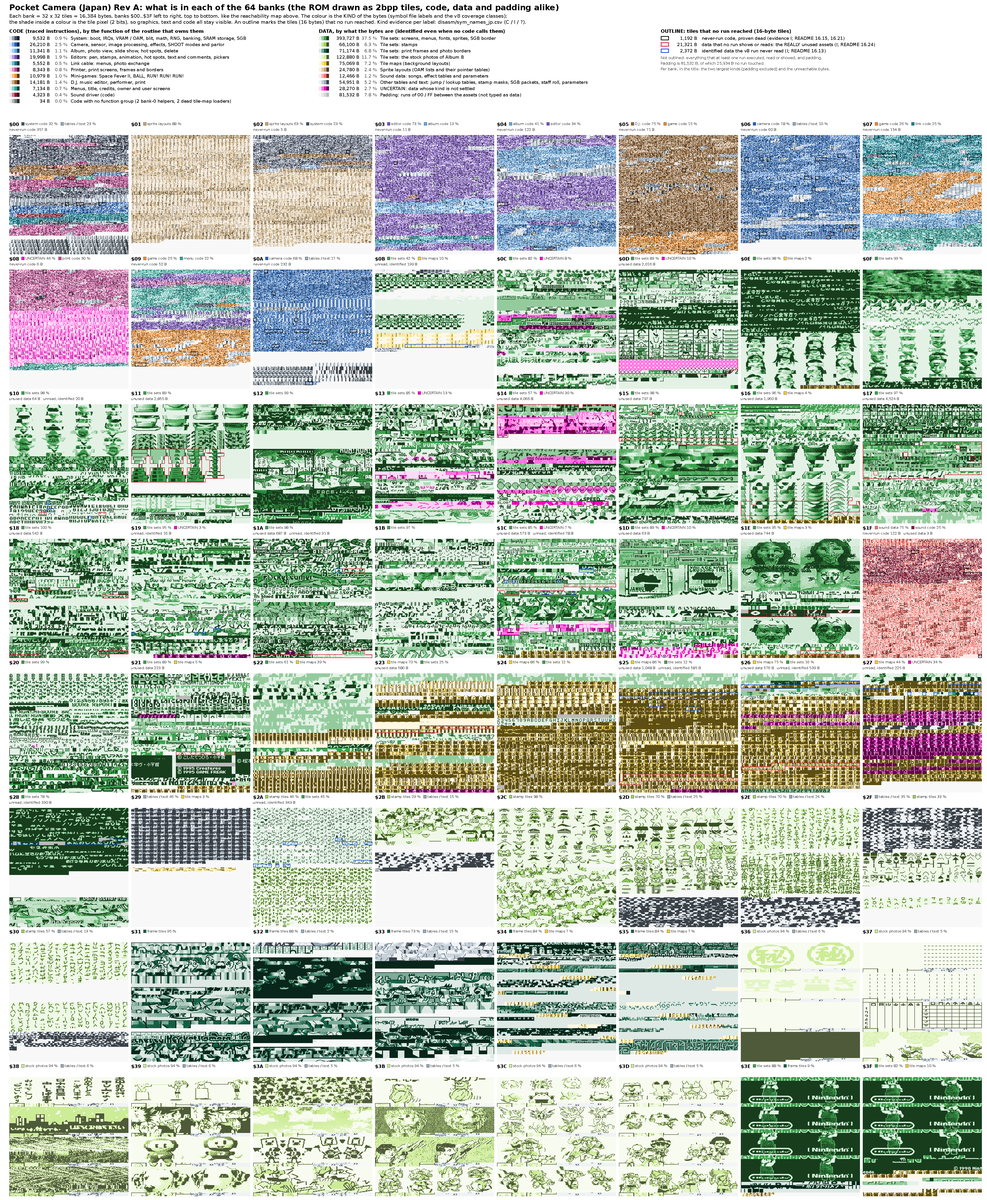
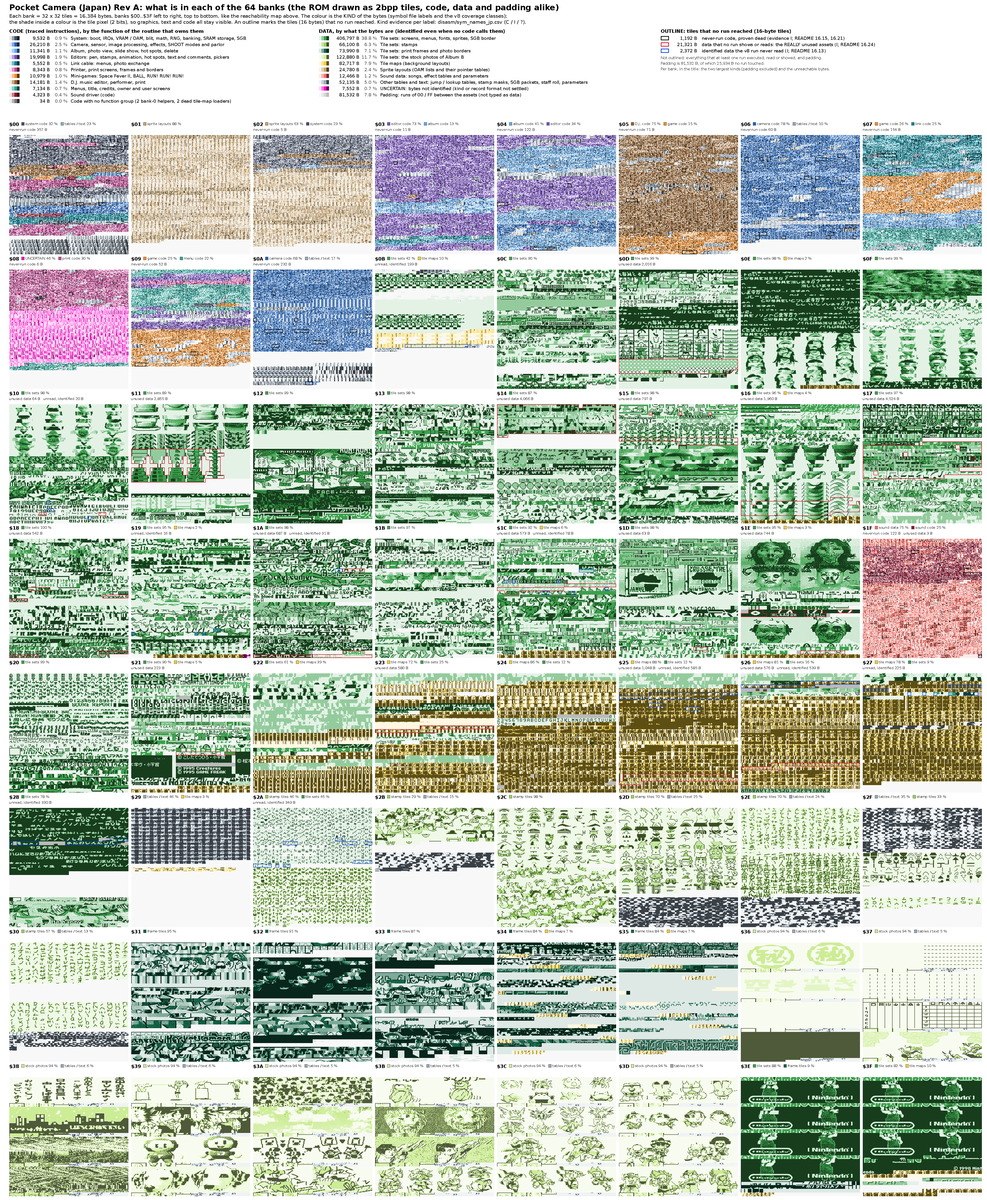
Layout map: classify the "uncertain" data by evidence
The uncertain colour was far too broad (28,270 B). A `?` on a label doubts the
role of the bytes, not their kind, and a `Src_*` / `Data_*` label is only named
after the far pointer that loads it. Now:

- A `?` label keeps the kind its name gives (the six `?` graphics are tile sets).
- assets/layout_kind_overrides_jp.csv gives each of the 50 far-pointer-named
  blocks its kind with the evidence: 7,648 B of tile maps (07:5369 copies 0x180
  B of the 07:53A6 entries to $9840; 07:7CF9 map strips; 04:5922 copies the
  04:5403 entries, 0x120 B, to $9C00; the equaliser copy) and 7,570 B of tile
  sets (04:5922 copies the 04:539D / 53D0 icon tiles to $8F00 / $8F60; digit,
  panel, picker and podium tiles; frame 0 of the 21:7BB0 icon animation).
- WildFrame*_TilesPart2 (32:4000, 33:4000, 2,816 B) are frame tile sets, not
  tables.
- Left uncertain: 08:54DE (7,520 B of records, format not decoded) and 19:7FE0
  (32 B after a map).

Totals: tile sets 669,767 B, tile maps 82,717 B, tables 52,135 B, uncertain
7,552 B. README section and bank table, CLAUDE.md and the by-bank CSV follow.

Claude-Session: https://claude.ai/code/session_01FyVRmHfUqNeQ8ayUFB5i6z

diff --git a/tcrf_check/tools/rom_layout_map.py b/tcrf_check/tools/rom_layout_map.py
@@ -1,14 +1,15 @@
 #!/usr/bin/env python3
 """The whole JP ROM bank by bank, coloured by WHAT each byte is (README 'Current status', second map), with the tiles that nothing reaches outlined. The ROM is drawn as 2bpp tiles (64 banks of 32 x 32 tiles) exactly like rom_reach_map.py.
-usage: rom_layout_map.py OUT.png [--rom pocketcamera_jp.gb] [--csv assets/layout_by_bank_jp.csv] [--map ...] [--assets ...] [--witness ...] [--reach ...] [--unused ...]
+usage: rom_layout_map.py OUT.png [--rom pocketcamera_jp.gb] [--csv assets/layout_by_bank_jp.csv] [--map ...] [--assets ...] [--witness ...] [--reach ...] [--unused ...] [--kinds assets/layout_kind_overrides_jp.csv]
 Each ROM byte gets one category:
   code (class C / F / N of coverage/v8/report_v8/rom_map.csv = traced instructions): the function group of the label that owns the byte (rules below; 10 groups);
   data (everything else): tile sets (4 kinds), tile maps, sprite (OAM) layouts, sound data, other tables and text, UNCERTAIN data, padding.
 The owner of a byte is the nearest label at or before it in the same bank (disasm/sym_names_jp.csv).  The kind of a data label comes from its name (Gfx_ / Sheet_ / Kana_ / TileGap_ = tile set, Map_ / BgMap_ /
 *Border*_Map = tile map, Song / Sfx / Snd = sound, OamList / OamPtrTbl = sprite layouts, StampCat*_Gfx = stamps, WildFrame / Border *_Tiles = frames, AlbumB*_Tiles / _Thumb = stock photos, anything else
-inside code banks = tables), so the evidence behind a kind is the one of the label (disasm/sym_names_jp.csv, column conf).  UNCERTAIN = data whose kind or role is not settled: the labels tagged '?' in
-the symbol file (disasm/sym_unconclusive_jp.md lists them) and Src_* / Data_* (copied through a far pointer whose
-destination class is not known).  Padding = runs of >= 16 x 00 / FF that no typed range of disasm/sym_types_jp.csv covers (the fill between the assets) and the zero fill named Bank*_Padding / ZeroFill in the symbol file.
+inside code banks = tables), so the evidence behind a kind is the one of the label (disasm/sym_names_jp.csv, column conf).  A label tagged '?' (disasm/sym_unconclusive_jp.md) only says that the ROLE of the bytes is doubtful, not their kind: it keeps the kind its name
+gives (a Gfx_ block is a tile set whatever its role).  The kind of the Src_* / Data_* blocks (named after the far pointer that loads them, not after what they are) comes from assets/layout_kind_overrides_jp.csv,
+one row per block with the evidence (the code that copies it and where to, or how the bytes render).  UNCERTAIN = the bytes that stay unidentified after that: a '?' label whose name gives no kind, and any Src_* / Data_*
+block without a row.  Padding = runs of >= 16 x 00 / FF that no typed range of disasm/sym_types_jp.csv covers (the fill between the assets) and the zero fill named Bank*_Padding / ZeroFill in the symbol file.
 The outline marks tiles that contain bytes no run reached, with the classes of rom_reach_map.py (tcrf_check/tools/rom_reach_classes.py): black never-run code, red unused data, blue identified data the v8 run never read."""
 import sys, os, csv, re, collections
 import numpy as np
@@ -22,7 +23,8 @@ def opt(n, d):
 ROM = opt('--rom', 'pocketcamera_jp.gb'); MAP = opt('--map', os.path.join(REPO, 'coverage', 'v8', 'report_v8', 'rom_map.csv'))
 ASSETS = opt('--assets', os.path.join(REPO, 'assets', 'asset_map_jp.csv')); WIT = opt('--witness', os.path.join(REPO, 'assets', 'witness_jp.csv'))
 REACH = opt('--reach', os.path.join(REPO, 'assets', 'reach_ranges_jp.csv'))
-UNUSED = opt('--unused', os.path.join(REPO, 'tcrf_check', 'assets', 'unidentified', 'really_unused.csv')); CSVOUT = opt('--csv', None); OUT = a[0]
+UNUSED = opt('--unused', os.path.join(REPO, 'tcrf_check', 'assets', 'unidentified', 'really_unused.csv')); CSVOUT = opt('--csv', None)
+KINDS = opt('--kinds', os.path.join(REPO, 'assets', 'layout_kind_overrides_jp.csv')); OUT = a[0]
 NAMES = os.path.join(REPO, 'disasm', 'sym_names_jp.csv'); TYPES = os.path.join(REPO, 'disasm', 'sym_types_jp.csv')
 
 g = RC.build(ROM, MAP, ASSETS, WIT, REACH, UNUSED, REPO)
@@ -51,7 +53,7 @@ CATS = [
  ('OAM',   'Sprite layouts (OAM lists and their pointer tables)',                                          (200, 165, 110)),
  ('SOUND', 'Sound data: songs, effect tables and parameters',                                              (255, 110, 100)),
  ('TBL',   'Other tables and text: jump / lookup tables, stamp masks, SGB packets, staff roll, parameters', (150, 168, 184)),
- ('UNC',   'UNCERTAIN: data whose kind is not settled',                                                    (255, 0, 200)),
+ ('UNC',   'UNCERTAIN: bytes not identified (kind or record format not settled)',                          (255, 0, 200)),
  ('PAD',   'Padding: runs of 00 / FF between the assets (not typed as data)',                                                           (214, 214, 214)),
 ]
 KEY = {k: i for i, (k, _, _) in enumerate(CATS)}
@@ -95,7 +97,7 @@ def data_kind(name):
     if p == 'StampCat': return 'T_STP' if name.endswith('_Gfx') else 'TBL'
     if p in ('WildFrame', 'Border') or name.startswith('Border'):
         if re.search(r'_Map$|Map$', name) and not name.endswith('SrcTbl'): return 'MAP'
-        return 'T_FRM' if re.search(r'(Tiles|TilesTail|LateralStrips)$', name) else 'TBL'
+        return 'T_FRM' if re.search(r'(Tiles(Part\d+|Tail)?|LateralStrips)$', name) else 'TBL'
     if p in ('Gfx', 'Sheet', 'Kana', 'TileGap', 'TileSet'): return 'T_UI'
     if p in ('Map', 'BgMap'): return 'MAP'
     if p == 'Sgb': return 'T_UI' if 'BorderTiles' in name else ('MAP' if 'BorderMap' in name else 'TBL')
@@ -109,7 +111,7 @@ l_code = np.zeros(L, np.uint8); l_data = np.zeros(L, np.uint8)
 for i, (o, r) in enumerate(labels):
     l_code[i] = KEY[code_group(r['name'])]
     k = data_kind(r['name'])
-    if r['conf'] == '?' and k != 'PAD': k = 'UNC'
+    if r['conf'] == '?' and k == 'TBL': k = 'UNC'                                          # role doubtful AND no kind in the name
     l_data[i] = KEY[k]
 idx = np.searchsorted(loff, np.arange(N), 'right') - 1
 ok = (idx >= 0) & ((loff[np.maximum(idx, 0)] >> 14) == (np.arange(N) >> 14))          # the owner must lie in the same bank
@@ -123,6 +125,16 @@ kind[cat == 3] = KEY['PAD']                                                     
 typed = np.zeros(N, bool)
 for r in csv.DictReader(open(TYPES, encoding='utf-8')): typed[flat(int(r['bank'], 16), int(r['start'], 16)):flat(int(r['bank'], 16), int(r['end'], 16))] = True
 kind[~typed & ~is_code & (cls != ord('T')) & g['pad']] = KEY['PAD']
+# kind of the Src_* / Data_* blocks, from the evidence rows of assets/layout_kind_overrides_jp.csv (bank, start, end, kind, ev, label, basis); only bytes still UNCERTAIN are changed
+if os.path.exists(KINDS):
+    for r in csv.DictReader(open(KINDS, encoding='utf-8')):
+        o0, o1 = flat(int(r['bank'], 16), int(r['start'], 16)), flat(int(r['bank'], 16), int(r['end'], 16))
+        seg = kind[o0:o1]; hit = (seg == KEY['UNC']) & ~is_code[o0:o1]; assert hit.any(), 'no uncertain byte left in %s' % r['label']
+        seg[hit] = KEY[r['kind']]
+_u = np.flatnonzero(kind == KEY['UNC'])
+if len(_u):
+    _cut = np.flatnonzero(np.diff(_u) > 1) + 1
+    for _s in np.split(_u, _cut): print('uncertain span %02X:%04X +%d' % (_s[0] // 0x4000, _s[0] % 0x4000 + (0x4000 if _s[0] >= 0x4000 else 0), len(_s)))
 
 # ---- marks: the bytes no run reached --------------------------------------------------------------------------------------------------------------------------------------------------------------
 MARKS = [('code that never ran (proven dead, evidence I; README 16.15, 16.21)', (0, 0, 0)),

diff --git a/README.md b/README.md
@@ -18,11 +18,11 @@ two ROMs are different builds that share the numbering of the modes and the flow
 
 ![What each byte of the Japanese ROM is, bank by bank: code by function, tile sets, tile maps, sprite layouts, sound data, tables, uncertain data and padding, with the tiles no run reached outlined](/jp_rom_layout_map.png)
 
-*What the map shows:* the same 64 banks drawn as 2bpp tiles as above, but the colour is **what the bytes are**, not whether a run reached them; the shade inside a colour is the tile pixel. **Code** (117,627 B, 11.2 %: every byte of the static trace) takes the colour of the function of the routine that owns it: system 9,532 B (boot, interrupts, VRAM / OAM, blit, math, RNG, bank switching, SRAM storage, the SGB sender), camera 26,210 B (sensor driver, image processing, effects, the SHOOT modes and the parlor), album 11,341 B, editors 19,998 B, link cable 5,552 B, printer 8,343 B, mini-games 10,979 B, D.J. 14,181 B, menus 7,134 B, sound driver 4,323 B, and 34 B in no group. **Data** is coloured by kind, **even when no code calls it**: tile sets 653,881 B (62.4 %: 393,727 B screens, menus, fonts, sprites and the SGB border; 66,100 B stamps; 71,174 B print frames and photo borders; 122,880 B the 30 stock photos of Album B), tile maps 75,069 B (7.2 %), sprite layouts 24,780 B, sound data 12,466 B, other tables and text 54,951 B (stamp masks, the staff roll, SGB packets, jump and lookup tables), **uncertain 28,270 B (2.7 %)**, and padding 81,532 B (7.8 %). An **outline** marks the 16-byte tiles that no run reached, with the classes of the first map: black = code that never ran (1,192 B), red = unused data (21,321 B), blue = identified data the v8 run never read (2,372 B); of the padding, 25,934 B were never touched. Per-bank byte counts of every colour: `assets/layout_by_bank_jp.csv`; generator `tcrf_check/tools/rom_layout_map.py` (shares `rom_reach_classes.py` with the first map).
+*What the map shows:* the same 64 banks drawn as 2bpp tiles as above, but the colour is **what the bytes are**, not whether a run reached them; the shade inside a colour is the tile pixel. **Code** (117,627 B, 11.2 %: every byte of the static trace) takes the colour of the function of the routine that owns it: system 9,532 B (boot, interrupts, VRAM / OAM, blit, math, RNG, bank switching, SRAM storage, the SGB sender), camera 26,210 B (sensor driver, image processing, effects, the SHOOT modes and the parlor), album 11,341 B, editors 19,998 B, link cable 5,552 B, printer 8,343 B, mini-games 10,979 B, D.J. 14,181 B, menus 7,134 B, sound driver 4,323 B, and 34 B in no group. **Data** is coloured by kind, **even when no code calls it**: tile sets 669,767 B (63.9 %: 406,797 B screens, menus, fonts, sprites and the SGB border; 66,100 B stamps; 73,990 B print frames and photo borders; 122,880 B the 30 stock photos of Album B), tile maps 82,717 B (7.9 %), sprite layouts 24,780 B, sound data 12,466 B, other tables and text 52,135 B (stamp masks, the staff roll, SGB packets, jump and lookup tables), **uncertain 7,552 B (0.7 %)**, and padding 81,532 B (7.8 %). An **outline** marks the 16-byte tiles that no run reached, with the classes of the first map: black = code that never ran (1,192 B), red = unused data (21,321 B), blue = identified data the v8 run never read (2,372 B); of the padding, 25,934 B were never touched. Per-bank byte counts of every colour: `assets/layout_by_bank_jp.csv`; generator `tcrf_check/tools/rom_layout_map.py` (shares `rom_reach_classes.py` with the first map).
 
-*How a byte gets its colour:* code is a byte of the static trace (coverage classes `C`, `F`, `N` of `coverage/v8/report_v8/rom_map.csv`); its function group is the one of the label that owns it (nearest label at or before it in the bank, `disasm/sym_names_jp.csv`; the `ModeNN_` labels follow the mode table of §16.2). Everything else takes its kind from the name of its label: `Gfx_` / `Sheet_` / `Kana_` / `TileGap_` = tile set, `StampCat*_Gfx`, `WildFrame*` / `Border*` tiles and `AlbumB*_Tiles` / `_Thumb` = the stamp, frame and stock-photo tile sets, `Map_` / `BgMap_` / `*_Map` = tile map, `Song` / `Sfx` / `Snd` = sound, `OamList` / `OamPtrTbl` = sprite layouts, the rest of a code bank = tables. The kind is therefore as certain as the label (C where a loader, a screenshot or a replay shows it, I where it is the reading of the bytes or of their neighbours, which is the case of most tile and map ranges that no code references). Padding is a run of 16+ `00` / `FF` that no typed range of `disasm/sym_types_jp.csv` covers, plus the zero fill the symbol file names `Bank*_Padding` / `ZeroFill`; forced runs read part of it (the 3,654 B of zero fill at the ends of banks $00-$02, for instance), so it is more than the 25,934 B nobody touched.
+*How a byte gets its colour:* code is a byte of the static trace (coverage classes `C`, `F`, `N` of `coverage/v8/report_v8/rom_map.csv`); its function group is the one of the label that owns it (nearest label at or before it in the bank, `disasm/sym_names_jp.csv`; the `ModeNN_` labels follow the mode table of §16.2). Everything else takes its kind from the name of its label: `Gfx_` / `Sheet_` / `Kana_` / `TileGap_` = tile set, `StampCat*_Gfx`, `WildFrame*` / `Border*` tiles and `AlbumB*_Tiles` / `_Thumb` = the stamp, frame and stock-photo tile sets, `Map_` / `BgMap_` / `*_Map` = tile map, `Song` / `Sfx` / `Snd` = sound, `OamList` / `OamPtrTbl` = sprite layouts, the rest of a code bank = tables. A `?` on a label doubts the role of the bytes, not their kind, so a `?` graphic stays a tile set. The 50 blocks named after the far pointer that loads them (`Src_*`, `Data_*`) get their kind from one evidence row each in `assets/layout_kind_overrides_jp.csv`. The kind is therefore as certain as the label or the row (C where a loader, a screenshot or a replay shows it, I where it is the reading of the bytes or of their neighbours, which is the case of most tile and map ranges that no code references). Padding is a run of 16+ `00` / `FF` that no typed range of `disasm/sym_types_jp.csv` covers, plus the zero fill the symbol file names `Bank*_Padding` / `ZeroFill`; forced runs read part of it (the 3,654 B of zero fill at the ends of banks $00-$02, for instance), so it is more than the 25,934 B nobody touched.
 
-*The uncertain colour (28,270 B, magenta):* 49 `Src_*` blocks, 15,122 B in banks $0C, $13, $14, $17, $19, $1C, $1D, $20, $21, $23, $25, $26 and $27 (data that a table-driven far-pointer copy loads and whose destination class, tile set or map, is not known); `08:54DE`, 7,520 B of short records of the wild-frame page lists (the record format is not decoded); the six graphic spans tagged `?` in the symbol file (5,500 B: `0C:5800`, `0C:6AB0`, `0D:7000`, `13:5CA0`, `14:4554`, `1A:7C90`); and `1C:6D60` (128 B, a small block with the generic name `Data_`, kind not known). `disasm/sym_unconclusive_jp.md` lists them with the test that would settle each.
+*The uncertain colour (7,552 B, magenta):* only what stays unidentified: `08:54DE`, 7,520 B of short records of the wild-frame page lists (the record format is not decoded; the printer packet routine reads them), and the 32 bytes after the 12-row map at `19:7FE0` (no loader reaches them). Everything else that the first version of this map left uncertain is classified (20,718 B): the 6 graphic spans tagged `?` (5,500 B: `0C:5800`, `0C:6AB0`, `0D:7000`, `13:5CA0`, `14:4554`, `1A:7C90`) are tile sets of doubtful role, and the 50 `Src_*` / `Data_*` blocks (15,218 B in banks $0C, $13, $14, $17, $19, $1C, $1D, $20, $21, $23, $25, $26 and $27) are 7,648 B of tile maps (C: the copy routine shows the BG-map destination: the animated background of the View menu, the main-menu slide strips, the stamp-category tile maps, the equaliser) and 7,570 B of tile sets (C where the copy shows a tile destination, as for the stamp-category icons loaded by `Stamp_LoadCategoryIcons`; I where the bytes render as digit, panel, picker or podium tiles). `disasm/sym_unconclusive_jp.md` lists the doubtful names with the test that would settle each.
 
 *How the banks are organised (shares of the 16 KB of each bank; the first map's classes give the reach):*
 
@@ -33,12 +33,12 @@ two ROMs are different builds that share the numbering of the modes and the flow
 | `$03`-`$09` | the mode code: editors (`$03` 73 %), album, editors and the parlor (`$04`), D.J. and BALL (`$05` 75 % + 15 %), the shooting modes (`$06` 78 %), main menu, link, Space Fever II and slide show (`$07`), print screens and the uncertain `08:54DE` block (`$08`: 46 % uncertain, 30 % print code), RUN! RUN! RUN!, the comment editor and keyboard, the user screens and the credits (`$09`) |
 | `$0A` | the camera: sensor driver and effects, 68 % code, 17 % tables |
 | `$0B` | the Super Game Boy data: border tiles 42 %, border map 10 %, packets and palettes 4 %, padding 44 % |
-| `$0C`-`$22` | tile sets, 57-100 % of each bank (`$22`: 61 % tile sets, 39 % tile maps), except `$1F` |
+| `$0C`-`$22` | tile sets, 61-100 % of each bank (`$22`: 61 % tile sets, 39 % tile maps), except `$1F` |
 | `$1F` | sound: 75 % song, effect and parameter data, 25 % sound driver code |
-| `$23`-`$27` | tile maps, 44-86 % of each bank (`$27`: 34 % uncertain) |
+| `$23`-`$27` | tile maps, 72-88 % of each bank, the rest tile sets (9-25 %) and padding |
 | `$28`-`$2A` | `$28` tile sets 78 % (padding 22 %); `$29` the staff-roll tables 46 % and padding 52 %; `$2A` the character glyphs and stamp sheets (tile sets 45 %) and the small-kana stamps (46 %) |
 | `$2B`-`$30` | the stamp categories: stamp tiles 29-98 % of each bank and their 1bpp masks (tables) |
-| `$31`-`$35` | print frames (`$31`-`$33`, 73-95 % frame tiles) and photo borders (`$34`-`$35`, 84 % tiles, 7 % maps) |
+| `$31`-`$35` | print frames (`$31`-`$33`, 87-95 % frame tiles) and photo borders (`$34`-`$35`, 84 % tiles, 7 % maps) |
 | `$36`-`$3D` | the 30 stock photos of Album B, 94 % picture tiles and thumbnails per bank, 5-6 % footers and tables |
 | `$3E`-`$3F` | tile sets (88 % and 82 %), border tiles 9 % in `$3E`, tile maps 10 % in `$3F` |
 
@@ -4351,7 +4351,7 @@ Left to right: lens 8; lens 9 after 0, 1, 2 and 3 steps (ramp B); lens 9 at step
 - `tools/cameras_summary.py` — one CSV line per camera from a folder of `NAME.sav` + `NAME.sgb` pairs (§11.9); `cameras/cameras_summary.csv` is its output for the 14 cameras
 - `tools/emu_calib_check.py` — PyBoy check of the calibration-record validity test with a given ROM and save (§11.9, point 2)
 - `tools/wram_readme.py` — renders the per-region CSV files of `wram/` as the condensed tables of §2
-- `tcrf_check/tools/rom_reach_map.py` — the reachability map at the top of this README: the whole ROM as 2bpp tiles, blue = reached by the v8 coverage run, red = never executed nor read, green also covers data used according to later runs (the wild-frame strips and the SGB data of evidence C in `assets/asset_map_jp.csv`, the `StampCat*_Gfx` pictures shown by the display walks), orange = never read but identified (`assets/asset_map_jp.csv`), yellow = really unused (`tcrf_check/assets/unidentified/really_unused.csv`, §16.24; `--unused none` draws the map without it); `python3 rom_reach_map.py OUT.png --rom pocketcamera_jp.gb`; the byte classes come from `tcrf_check/tools/rom_reach_classes.py`, shared with `tcrf_check/tools/rom_layout_map.py` — the second map (what each byte is: code by function, tile sets, tile maps, sprite layouts, sound, tables, uncertain, padding, with the unreached tiles outlined; `python3 rom_layout_map.py OUT.png --rom pocketcamera_jp.gb --csv assets/layout_by_bank_jp.csv`; rules in its docstring and in the section below the first map)
+- `tcrf_check/tools/rom_reach_map.py` — the reachability map at the top of this README: the whole ROM as 2bpp tiles, blue = reached by the v8 coverage run, red = never executed nor read, green also covers data used according to later runs (the wild-frame strips and the SGB data of evidence C in `assets/asset_map_jp.csv`, the `StampCat*_Gfx` pictures shown by the display walks), orange = never read but identified (`assets/asset_map_jp.csv`), yellow = really unused (`tcrf_check/assets/unidentified/really_unused.csv`, §16.24; `--unused none` draws the map without it); `python3 rom_reach_map.py OUT.png --rom pocketcamera_jp.gb`; the byte classes come from `tcrf_check/tools/rom_reach_classes.py`, shared with `tcrf_check/tools/rom_layout_map.py` — the second map (what each byte is: code by function, tile sets, tile maps, sprite layouts, sound, tables, uncertain, padding, with the unreached tiles outlined; `python3 rom_layout_map.py OUT.png --rom pocketcamera_jp.gb --csv assets/layout_by_bank_jp.csv`; the kind of the `Src_*` / `Data_*` blocks is read from `assets/layout_kind_overrides_jp.csv` (one evidence row per block); rules in its docstring and in the section below the first map)
 - Never-run code (§16.14, §16.15): `tcrf_check/tools/witness_map.py` (writes `assets/witness_jp.csv` from the later runs), `reach_analysis.py` (writes `assets/reach_components_jp.csv`: one verdict per never-run component; hand verdicts in `assets/reach_manual_jp.csv`), `dj_fields.py` (every key at every field of the music-editor pages), `reach_bfs.py` (goal-directed key search), `run_race.py` (RUN! RUN! RUN! played to the end), `bgb_run_race.py` (its key paths replayed in BGB), `rom_reach_map.py` (the map; purple = proven dead, from `assets/reach_ranges_jp.csv`), `force_open.py` (§16.21: WRAM / SRAM pokes in the core, 31 experiments, plus three modes of `dj_pages.py`; outputs in `tcrf_check/assets/easy_wins/force/`), `sm83sim.py` + `sim_blit.py` (a minimal SM83 interpreter used to check the blit carry bytes)
 - Easy wins (§16.19, §16.20): `tcrf_check/tools/bgb_link_variants.py` (two BGB instances linked, owner male / female, `$55` partner; markers and heads), `dj_pages.py` (every D.J. state with eight keys and 26 chords), `editor_copy_flag.py` (the copy-badge branch of the editor save-back, `--f33`), `gameface_edit.py` (a Game Face stored in the SRAM: the hidden Game Face item, the Game Face editor and its save-back), `bgb_compose.py` + `compose_picker.py` (the COMPOSE photo pickers: A held with Up / Down, in BGB and in the core), `slideshow_markers.py` + `bgb_slideshow.py` (the slide-show repeat markers: a save with start / end markers in its timing array, the player and the editor preview, in the core and in BGB), `song_decode.py` (sound-driver songs as note names), `bgb_result_screen.py` (the "no blank frames" screen and its music-mailbox writes in BGB), `bgb_factory_test.py` (the hidden factory test in BGB); outputs in `tcrf_check/assets/easy_wins/`
 - The GameFAQs cheats page and the two games (§16.18): `tcrf_check/tools/cheat_checks.py` (28 key scenarios, core and BGB), `albumb_thresholds.py` (every Album B threshold, both ROMs), `run_record.py` (RUN! race record → the three gates), `sf2_play.py` and `ball_play.py` (Space Fever II and BALL played with the joypad only; `ball_play.py` ports the ROM's own autopilot), `ball_cap.py` (the score-add routine called at its limits, BALL played on from 9990, the BALL speed table: the two games have no end, §16.18), `play_effects.py` (what the played scores unlock), `dj_se.py` and `bgb_dj_se.py` (D.J. sound effects SE 1-9), `counter_scan.py` (which corpus paths change the Album B counters)

diff --git a/CLAUDE.md b/CLAUDE.md
@@ -22,13 +22,13 @@ This file holds the rules and the layout. Numbers and findings live in `README.m
 
 ## What is in the repository, and what is not
 * In git, at the top: `README.md` (§1-18, appendix), `HOWTO_NEW_ROM.md` (playbook for the next ROM, levels L0-L6), `skills/gb-rom-disassembly/SKILL.md` (the same playbook as a skill, keep the two in step),
-  `pocketcamera_jp.sym`, `jp_rom_reachability_map.png` (what the runs reached) and `jp_rom_layout_map.png` (what each byte is; both drawn by `tcrf_check/tools/rom_reach_map.py` / `rom_layout_map.py`, regenerate both when the coverage, witness, reach or label data change).
+  `pocketcamera_jp.sym`, `jp_rom_reachability_map.png` (what the runs reached) and `jp_rom_layout_map.png` (what each byte is; both drawn by `tcrf_check/tools/rom_reach_map.py` / `rom_layout_map.py`, regenerate both when the coverage, witness, reach or label data change; the kind of the far-pointer-named `Src_*` / `Data_*` blocks comes from `assets/layout_kind_overrides_jp.csv`, add a row there when a new block is identified).
 * `disasm/`: `sym_names_jp.csv` + `sym_types_jp.csv` (the source of the symbol file), `sym_unconclusive_jp.{md,csv}` (doubtful names, regenerate with `tools/make_doubts.py`), `renamed_jp.csv` (every label change of the L3 pass),
   `owner_answers_jp.csv`, `charset_jp.csv`, `code_gaps.md`, `coverage_jp_v3.csv`, `sym_unconclusive_banks/` (pictures behind the doubtful rows).
 * `tools/`: the pipeline (`sym_build.py`, `sym_fix.py`, `make_doubts.py`, `rom_trace.py` + `extra_roots.json` + `rom_trace_labels.sym`, `rom_coverage.py`, `wram_db.py`, `ram_census.py`, `asset_catalog.py`, `sram_analyze.py`, renderers).
   `tcrf_check/tools/` holds the other scripts (BGB harness, TCRF checks, sensor, forcing); they import `sram_analyze` from `tools/`. One copy of each script only.
 * `coverage/` (core `coverage/src`, fuzzer and report tools, `results/`, `v8/`, see its README), `wram/` (WRAM / HRAM / trace), `link_protocol/` (cable sniff logs and their format), `cameras/` (the 14 real cameras' SRAM summary),
-  `assets/` (catalog, reach and per-bank layout CSVs, bank atlas), `tcrf_check/` (checklist, `assets/` evidence, `tools/`, `work/`, `shots/`, `BGB_TEST_SHEET.md`), `captures/` (three emulator screens of the erase-all dialog),
+  `assets/` (catalog, reach and per-bank layout CSVs, layout kind evidence, bank atlas), `tcrf_check/` (checklist, `assets/` evidence, `tools/`, `work/`, `shots/`, `BGB_TEST_SHEET.md`), `captures/` (three emulator screens of the erase-all dialog),
   `Spriter_ressources_check/` (the owner's Spriters Resource sheets, used for matching: his data, leave it alone).
 * The symbol file is **generated**: edit `disasm/sym_names_jp.csv` / `sym_types_jp.csv` and run `tools/sym_build.py` (README §1.1.1); never edit `pocketcamera_jp.sym` by hand. mgbdis v3.0 reads `<rom basename>.sym` beside the ROM
   (no `--sym` option); check every change with mgbdis + rgbasm 1.0.4 (md5 `fdcfe686cf4df461e870b6e53b2b5a8b`), plain and after `tools/sym_fix.py --tables`. Regenerate the doubts list after renames. When a count changes
